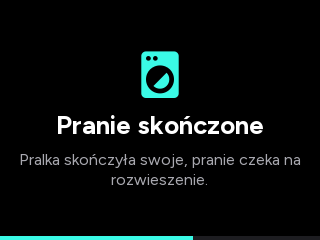
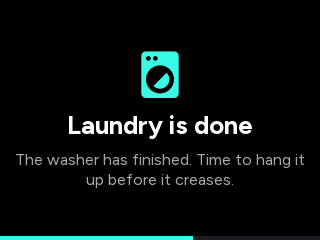
Docs: English sample text in the notification and shopping list screenshots
The README and wiki are English; the two new screenshots and the notify.yaml
example were in Polish. Same screens, English content. Documentation only,
the firmware is unchanged from v1.1.0.

Changed region(s): [[0.0312, 0.6417, 0.9688, 0.7], [0.1562, 0.4667, 0.8438, 0.5833], [0.25, 0.7292, 0.7188, 0.7875]]

diff --git a/scripts/gen_notify_shopping.py b/scripts/gen_notify_shopping.py
@@ -54,8 +54,8 @@ def notify(cache, core):
     d = ImageDraw.Draw(img)
     f_icon, f_title, f_msg = icon_font(cache, 56), gfont(cache, 26, 700), gfont(cache, 16)
 
-    title = wrap(d, "Pranie skończone", f_title, 290)
-    msg = wrap(d, "Pralka skończyła swoje, pranie czeka na rozwieszenie.", f_msg, 290)
+    title = wrap(d, "Laundry is done", f_title, 290)
+    msg = wrap(d, "The washer has finished. Time to hang it up before it creases.", f_msg, 290)
     ih, th, lh = 56, 32 * len(title), 20
     mh = lh * len(msg) + 8
     y = max(4, (H - 4 - (ih + 6 + th + mh)) // 2)   # ten sam wzor co notify_show
@@ -81,8 +81,8 @@ def shopping(cache, core):
     d = ImageDraw.Draw(img)
     f_body, f_row, f_icon = gfont(cache, 16), gfont(cache, 20), icon_font(cache, 20)
     accent, line = rgb(s["shopping_accent_color"]), rgb(s["shopping_line_color"])
-    items = ["Mleko", "Chleb żytni", "Jajka (10 szt.)", "Masło", "Pomidory malinowe",
-             "Kawa ziarnista", "Ziemniaki"]
+    items = ["Milk", "Rye bread", "Eggs (a dozen)", "Butter", "Vine tomatoes",
+             "Coffee beans", "Potatoes"]
 
     # Belka
     d.rectangle((0, 0, W, 33), fill=rgb(s["shopping_bar_color"]))

diff --git a/README.md b/README.md
@@ -781,7 +781,7 @@ from an automation that knows the thing is over.
 # In any automation that already announces something on your speakers:
 - action: esphome.kitchen_show_notification
   data:
-    title: "Washing done"
+    title: "Laundry is done"
     message: "{{ agent.response.speech.plain.speech }}"   # or any text
     icon: washer
     seconds: -1          # stays until someone has seen it
